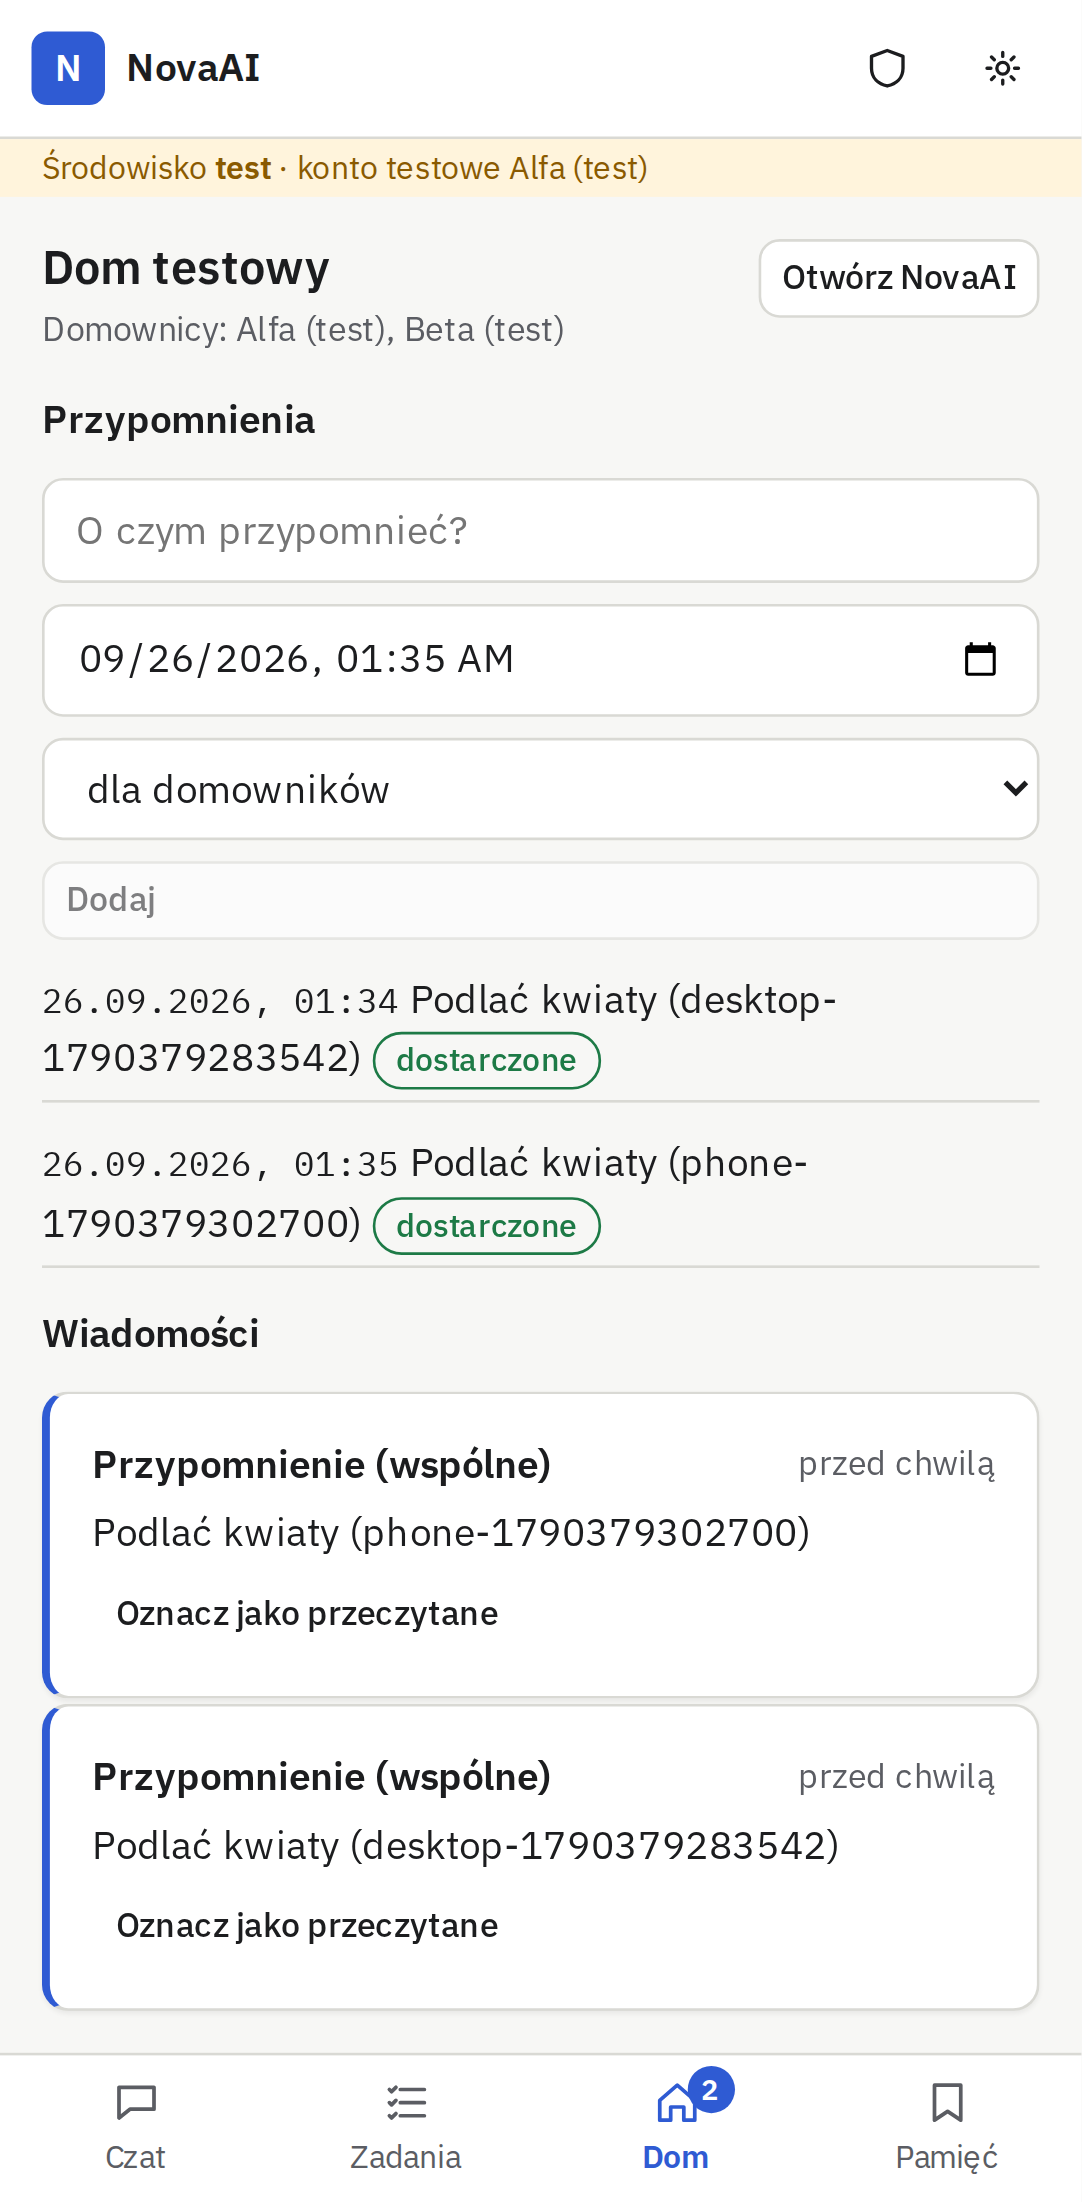
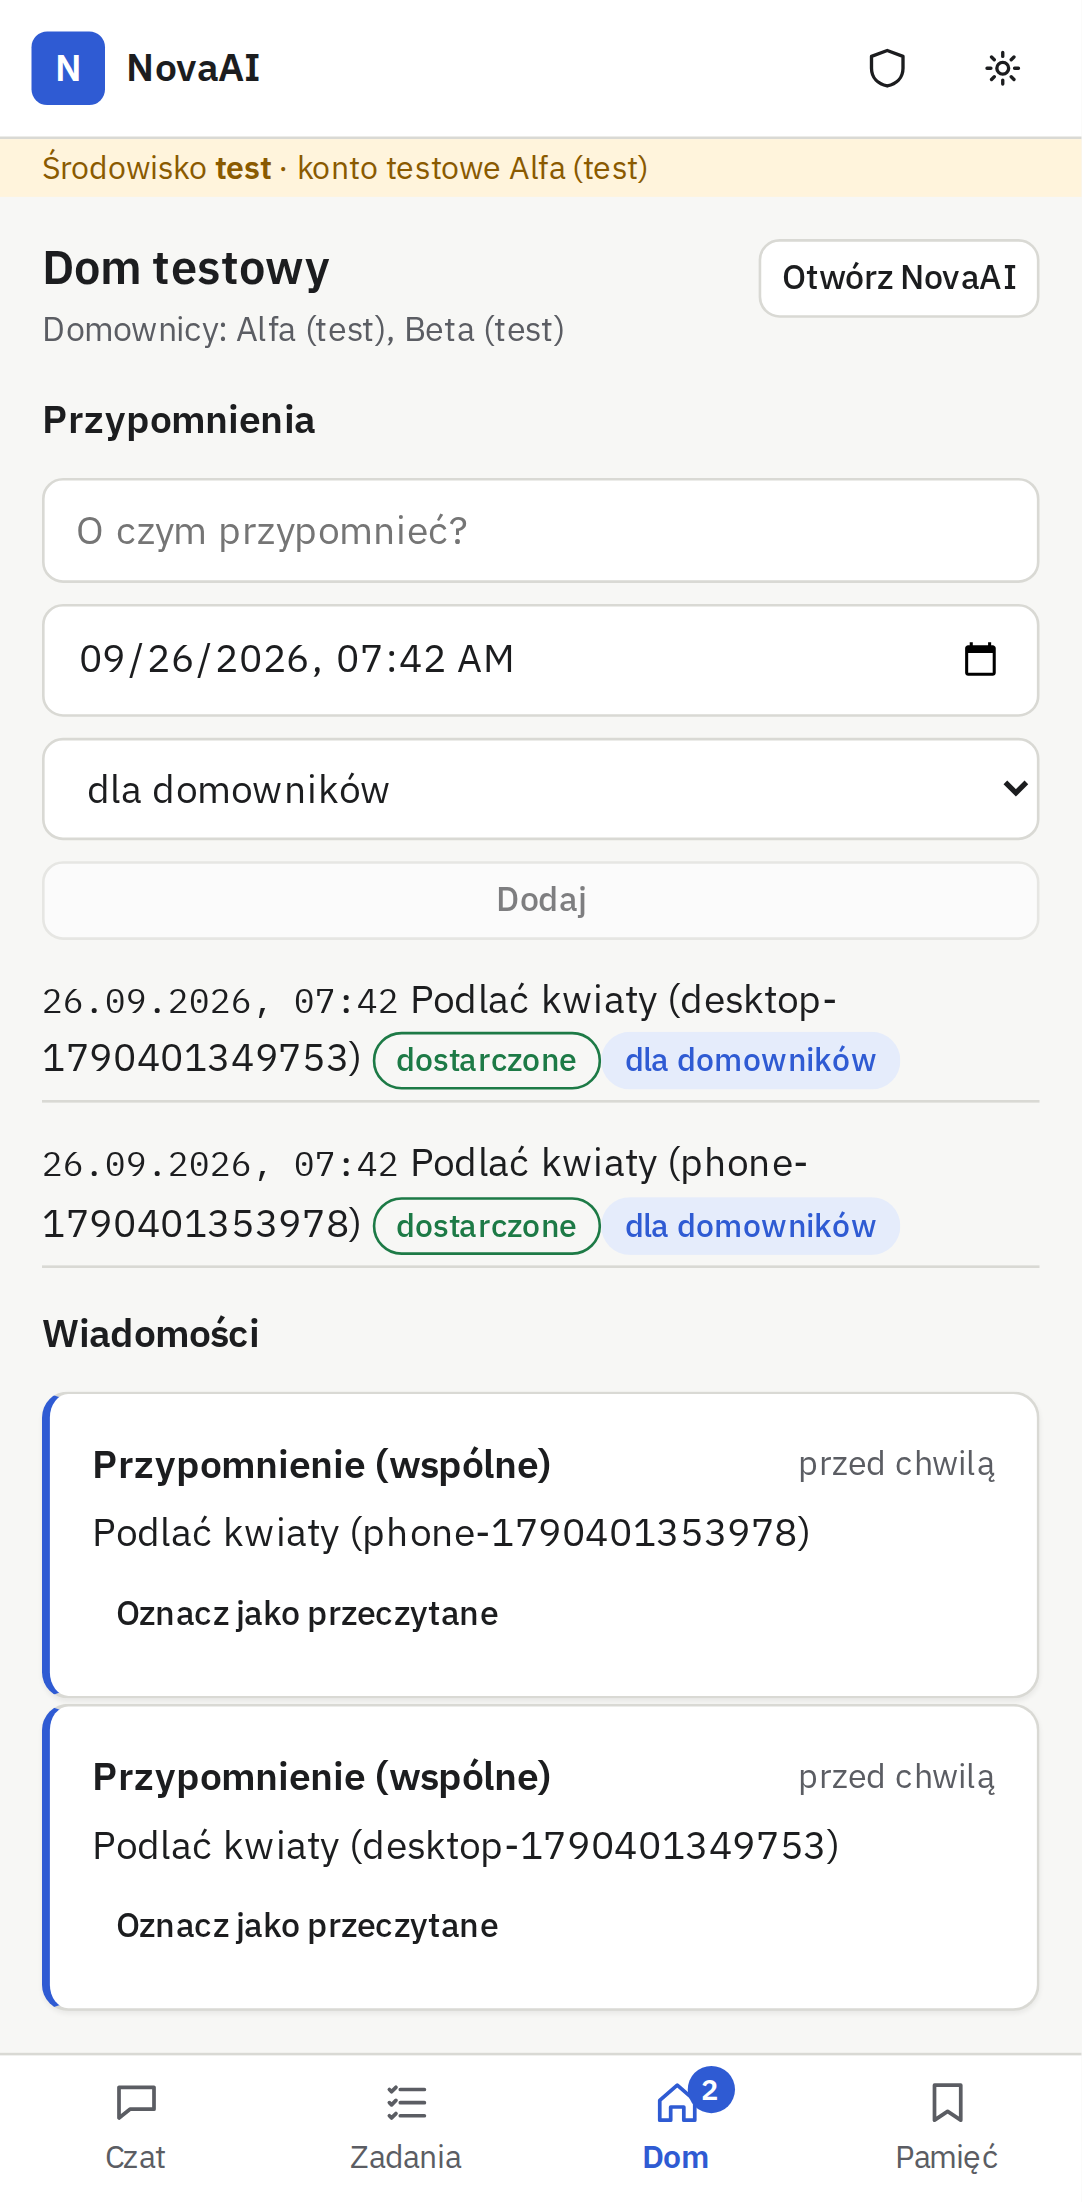
UI review round 2: reminder audience labels, wider date fields, refreshed screenshots
- Reminders list marks each item as shared ("dla domowników" / "od: …") or private
- Date-time fields in reminder and local calendar forms no longer cut off the date
- docs/screens refreshed from the e2e run, including documents, cited sources
  in chat and the fragment view

Claude-Session: https://claude.ai/code/session_01KegcN2PT624rRNH8yhAa8R

diff --git a/apps/web/src/views/Reminders.tsx b/apps/web/src/views/Reminders.tsx
@@ -51,7 +51,11 @@ export function RemindersPanel() {
       <span>
         <span className="mono small">{fmt(r.dueAt)}</span> {r.text}{' '}
         {r.status === 'fired' && <Badge tone="ok">dostarczone</Badge>}
-        {r.visibility === 'shared' && !r.isMine && <span className="tag">od: {r.ownerName}</span>}
+        {r.visibility === 'shared' ? (
+          <Badge tone="accent">{r.isMine ? 'dla domowników' : `od: ${r.ownerName}`}</Badge>
+        ) : (
+          <Badge>tylko dla mnie</Badge>
+        )}
       </span>
       {r.isMine && r.status === 'scheduled' && (
         <button

diff --git a/apps/web/src/styles.css b/apps/web/src/styles.css
@@ -903,10 +903,11 @@ label {
   gap: var(--space-2);
 }
 .panel .grant-form:has(input[type='datetime-local']) {
-  grid-template-columns: 1fr 190px 190px auto;
+  grid-template-columns: 1fr 230px 230px auto;
 }
 .reminder-form {
-  grid-template-columns: 1fr 190px 170px auto;
+  /* Pole daty mieści format z godziną także w angielskiej wersji przeglądarki (mm/dd/rrrr, hh:mm AM). */
+  grid-template-columns: 1fr 230px 170px auto;
   margin-bottom: var(--space-2);
 }
 .pairing-code {

diff --git a/docs/PROGRESS.md b/docs/PROGRESS.md
@@ -258,6 +258,9 @@ Aktualizowane po każdej pionowej funkcji. Tylko fakty potwierdzone poleceniami 
       „Wybierz pliki” i polskie statusy dokumentów z odnośnikiem.
   12. Puste stany bez wskazówki (Zgody, Wiadomości, Przypomnienia) i błąd gramatyczny („z Asystent Bety”) → konkretne
       wskazówki, co zrobić. Przycisk zadania demonstracyjnego ukryty w produkcji.
+  13. (Druga runda zrzutów) Na liście przypomnień nie było widać, które są wspólne → oznaczenie „dla domowników” /
+      „od: …” / „tylko dla mnie”; pole daty w formularzu przypomnień i kalendarza lokalnego ucinało początek → szersza kolumna.
+- Zrzuty w `docs/screens/` odświeżone z e2e (`E2E_SCREENSHOTS=1`), w tym nowe: dokumenty, źródła w czacie, fragment.
 - Nie zmieniono: format pola daty w przeglądarce (natywne, zależy od języka przeglądarki/systemu).
 - Polecenia i wyniki: `pnpm check` → contracts 4/4, permissions 27/27, api 187/187 (nowe: `conversations.test.ts` 2,
   testy fragmentów Markdown i wycinków), web 4/4; `pnpm test:e2e` → 20/20 (test NovaAI wyszukuje rozmowę po tytule).
